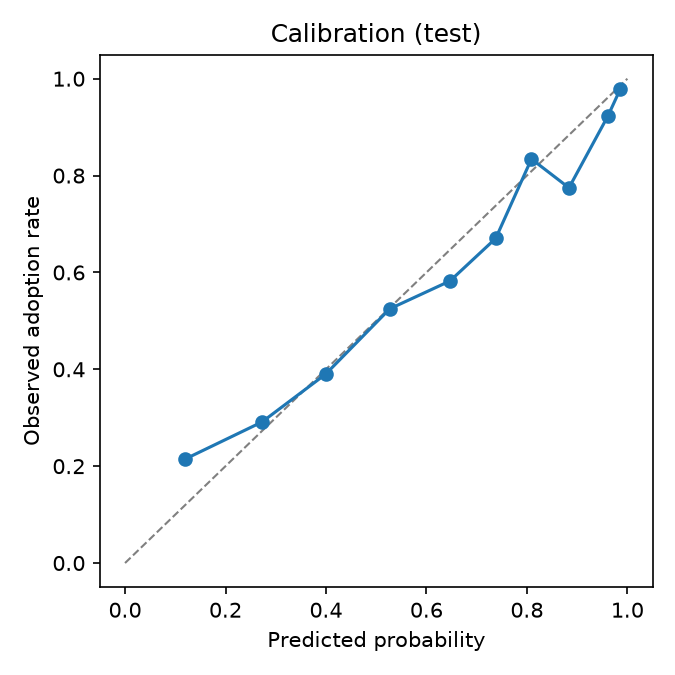
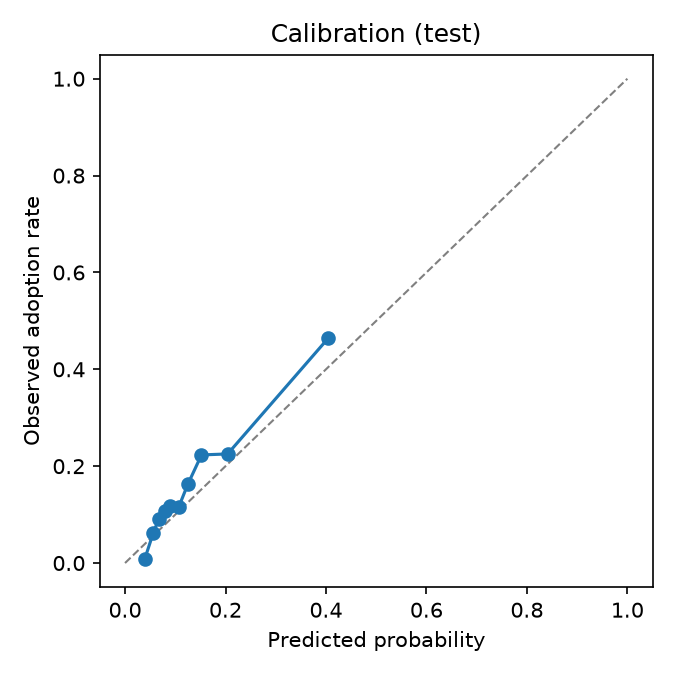
Update results for threshold=50, repackaged-excluded run
Rerun of build_dataset -> train -> explain on the corrected target.
Final model: LightGBM, calibrated. Test PR-AUC 0.43 vs 0.16 base rate,
ROC-AUC 0.74, beating both baselines on validation and test.

README: replaced the threshold=10 numbers with these, and added a
"Why repackaged models are excluded" section covering the 89% vs 56%
adoption gap and the links-in-card finding (mostly GGUF boilerplate,
not genuine documentation). Also noted the robustness check: retraining
at threshold=100 gives the same top 5 drivers in the same order.

diff --git a/README.md b/README.md
@@ -13,22 +13,24 @@
 ---
 
 ## 🔑 Results
-Trained on 12,116 eligible Hugging Face models tagged with an Indian language (8,481 train / 1,817 validation / 1,818 test, split chronologically: train ends 2026-01-10, test starts 2026-04-11).
+Trained on 7,440 eligible Hugging Face models tagged with an Indian language, after excluding repackaged models (5,208 train / 1,116 validation / 1,116 test, split chronologically: train ends 2026-02-17, test starts 2026-04-21). Adoption rate is 16.8% / 15.9% / 15.8% across the three splits.
 
-- **Final model:** LightGBM, calibrated · **PR-AUC 0.87** on the newest 1,818 models (vs. 0.62 for guessing the base rate, 0.66 for a documentation-checklist baseline) · **ROC-AUC 0.80**.
-- The top 10% of models by predicted probability are adopted **1.6× more often** than average (98% vs. 62%).
-- At the chosen threshold: precision 0.75, recall 0.86 (F1 0.80).
-- **Strongest drivers** (by mean |SHAP|): GGUF (locally-runnable) weights, links in the model card, builder type, parameter count, number of files, and the card's text topics.
+- **Final model:** LightGBM, calibrated · **PR-AUC 0.43** on the newest 1,116 models (base rate 0.16) · **ROC-AUC 0.74**. On validation: PR-AUC 0.44 (base rate 0.16), ROC-AUC 0.70. Both beat the base-rate and documentation-checklist baselines (test PR-AUC 0.16 and 0.20; see `reports/model_comparison.csv`).
+- The top 10% of models by predicted probability are adopted **2.9× more often** than average (46% vs. 16%) — max possible lift is `1 / base rate` ≈ 6.3, so the model captures under half of the theoretical best.
+- At the chosen threshold (0.36): precision 0.70, recall 0.20 (F1 0.31) — it flags a smaller, higher-confidence set of models rather than most future adoptees.
+- **Top 10 drivers** (by mean |SHAP|, direction where it's a single higher/lower relationship): builder type (see categories), model card wording/topics, number of language tags (higher → more adoption), model size in parameters (mixed), number of files (mixed), task (see categories), library (see categories), links in the card (higher → more adoption), model card length (higher → more adoption), language (see categories).
+- **Robustness check:** retraining at a stricter threshold (≥100 downloads/30d instead of ≥50) gives the same top 5 drivers in the same order, so this isn't an artifact of one specific threshold.
 
-These are launch-time associations the model found useful for prediction, not proven causes — see [Doing it honestly](#-doing-it-honestly). Adding a link or a GGUF file does not, by itself, guarantee more downloads.
+These are launch-time associations the model found useful for prediction, not proven causes — see [Doing it honestly](#-doing-it-honestly). Adding a link or writing a longer card does not, by itself, guarantee more downloads.
 
 ![What drives adoption](reports/figures/shap_importance.png)
 ![Precision-recall on the test set](reports/figures/pr_curve.png)
 
 ## ❓ Problem framing
 - **Unit:** one Hugging Face model tagged with at least one of India's 22 official languages.
-- **Target (`is_adopted`):** at least **10 downloads in the last 30 days** at the snapshot date, i.e. the model is still being used. The threshold is set in `src/config.py`.
+- **Target (`is_adopted`):** at least **50 downloads in the last 30 days** at the snapshot date, i.e. the model is still being used. The threshold is set in `src/config.py` / `ADOPTION_MIN_DOWNLOADS_30D`. (10 was tried first and gave a 62-74% "adopted" rate by split — too easy a bar to be useful; 50, with repackaged models excluded, lands in a 15-30% adoption range instead.)
 - **Who is eligible:** models with a real created date that are **90 days to 3 years old**. Younger models haven't had time to be found. Models from before March 2022 carry Hugging Face's placeholder date and are excluded.
+- **Repackaged models are excluded by default** (`EXCLUDE_REPACKAGED=1` in `src/config.py`) — see [Why repackaged models are excluded](#-why-repackaged-models-are-excluded) below.
 - **Features:** only what a builder controls or knows **at launch**:
 
 | Group | Examples |
@@ -41,6 +43,14 @@ These are launch-time associations the model found useful for prediction, not pr
 | Documentation | card length, headings, code examples, usage / training data / evaluation / limitations / citation sections, unedited template text, structured eval results, datasets and metrics listed |
 | Card wording | TF-IDF of the model card compressed to 20 topics (SVD) |
 | Name | test/demo-style name, name length |
+
+## 🧹 Why repackaged models are excluded
+Quantized re-uploads, GGUF conversions and models from accounts classified as a "Model Repackager" (the biggest by far is `mradermacher`, an account that auto-publishes GGUF quantizations of other people's models) are not "adopted" in the sense this project cares about — they get pulled by automated tools (llama.cpp, LM Studio, Ollama and similar) regardless of whether anyone is choosing that specific model.
+
+- They're 38.6% of eligible models, but adopted (≥10 downloads/30d) **89%** of the time, vs. **56%** for everything else. The gap holds at every threshold tried (10 through 500).
+- The "links in the card" driver looked partly like a repackaging artifact: among the highest-link cards, several of the top "adopted" *and* top "not adopted" examples were `mradermacher`'s auto-generated GGUF cards, which list one link per quantization file plus a fixed boilerplate template (base model, a mirror site, a copy-pasted link to an unrelated repo) rather than genuine documentation. It isn't a data leak — no download counts appear in the card text — but it is a repackaging signal, not a builder-quality one.
+
+`EXCLUDE_REPACKAGED=1` (the default, in `src/config.py`) removes `base_relation == "quantized"`, `has_gguf == 1` and `org_type == "Model Repackager"` before training, so the model learns from models people actually chose to publish and use, not from a quantization farm's throughput. Set `EXCLUDE_REPACKAGED=0` to include them again.
 
 ## 🛡 Doing it honestly
 - **No leakage.** Downloads, likes, trending score, Spaces and child models are outcomes and never features. `tests/test_features.py` fails if one sneaks in.
@@ -106,11 +116,11 @@ streamlit run app/streamlit_app.py
 
 ## ⚠ Limitations
 - **One snapshot.** Card, files and license are read at the snapshot date, not at launch, so a card improved after a model became popular looks "launch-time" here. Weekly snapshots (as in Bharat AI Atlas) would fix this.
-- `downloads` counts are global, and include automated and CI downloads. They measure use, not use in India. This is likely why the base "adoption" rate (62-74% by split) is much higher than Bharat AI Atlas's "ever downloaded" figures: 10 downloads in 30 days is a low bar, and a lot of that traffic is automated.
+- `downloads` counts are global, and include automated and CI downloads. They measure use, not use in India. A first pass at 10 downloads/30d gave a 56-89% "adopted" rate depending on how repackaged models were handled — clearly too easy a bar — which is why the target is 50 downloads/30d with repackaged models excluded (see [Why repackaged models are excluded](#-why-repackaged-models-are-excluded)).
 - The Hugging Face API no longer accepts `usedStorage` as an `expand` field, so repo-size-on-disk (`log_storage_mb`) cannot currently be collected and is a dead feature (always missing, median-imputed to nothing). Repo size would need to be estimated another way (e.g. per-file sizes from `repo_info`) to be useful again.
 - Builder type is mapped by hand for 215 authors, so most small authors are "Unclassified".
 - Language tags can be wrong (see Bharat AI Atlas), and documentation features overlap, so read SHAP for groups of related features rather than one feature at a time.
-- One author, `mradermacher` (a prolific GGUF-quantization publisher), is the largest single author in both train (9.4%) and test (3.9%) and is adopted almost every time (99% in test). Excluding it from the test set only drops PR-AUC from 0.87 to 0.85, so the model is not just memorizing that one author.
+- Author concentration is much lower once repackaged models are excluded: the largest single author is 3.0% of train and 4.9% of test (previously `mradermacher` alone was 9.4% of train before exclusion).
 
 ## 🚀 Next steps
 - **Language tag checker:** detect mislabelled models with language ID on card text.

diff --git a/reports/findings_draft.md b/reports/findings_draft.md
@@ -1,8 +1,8 @@
 # Findings draft (auto-generated - edit before publishing)
 
 
-- Target: downloads_30d >= 10. Base rate on the test set: 61.8%.
-- Final model (LightGBM, calibrated) on the newest 1,818 models: PR-AUC 0.87 (vs 0.62 for guessing), ROC-AUC 0.80.
-- The top 10% of models by predicted probability are adopted 1.6x more often than average (98% vs 62%).
-- Strongest drivers: GGUF (local-run) weights, Links in card, Builder type, Model size (parameters), No. of files.
-- Adoption rate by number of documentation sections (0-5): 0: 60%, 1: 76%, 2: 87%, 3: 56%, 4: 72%, 5: 83%.
+- Target: downloads_30d >= 50. Base rate on the test set: 15.8%.
+- Final model (LightGBM, calibrated) on the newest 1,116 models: PR-AUC 0.43 (vs 0.16 for guessing), ROC-AUC 0.74.
+- The top 10% of models by predicted probability are adopted 2.9x more often than average (46% vs 16%).
+- Strongest drivers: Builder type, Model card wording (topics), No. of language tags, Model size (parameters), No. of files.
+- Adoption rate by number of documentation sections (0-5): 0: 13%, 1: 13%, 2: 29%, 3: 14%, 4: 20%, 5: 27%.
